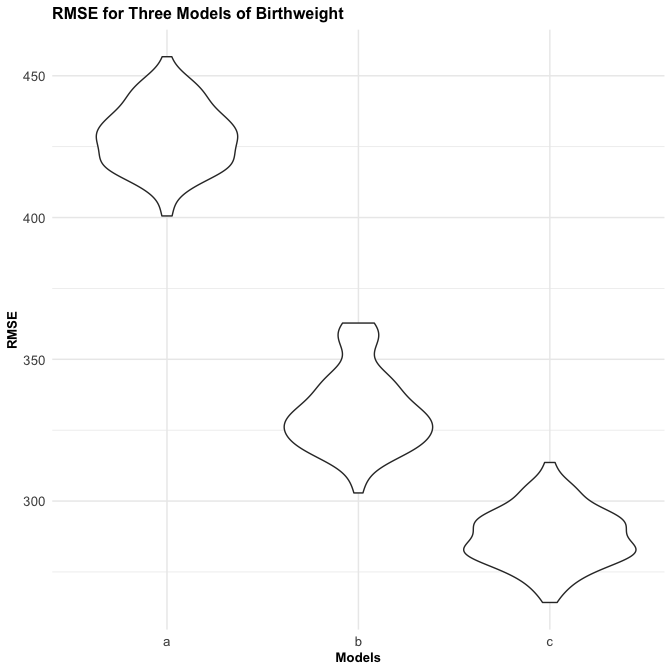
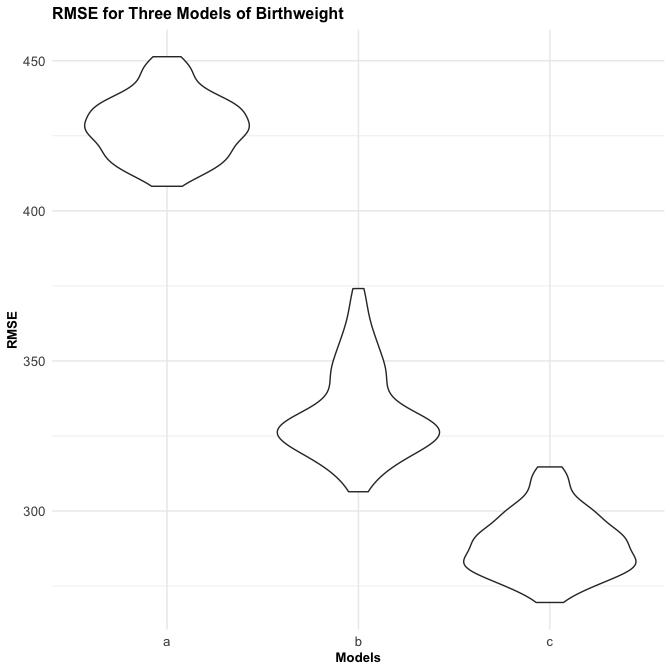
made edits to R Markdown file throughout (copyediting, fixing formatting, etc.)

diff --git a/p8105_hw6_amz2148.md b/p8105_hw6_amz2148.md
@@ -47,6 +47,8 @@ theme_set(theme_minimal() + theme(legend.position = "bottom")) #sets default fig
 
 # Problem 1
 
+Solutions provided.
+
 # Problem 2
 
 First we import the `homicides` dataset from the Washington Post
@@ -111,11 +113,11 @@ head(homicides) #outputs first few rows of dataset
 
 For the city of Baltimore, MD, we use the `glm` function to fit a
 logistic regression with resolved vs unresolved as the outcome and
-victim age, sex and race as predictors. We save the output of `glm` as
-an R object; apply `broom::tidy` to this object; and obtain the estimate
-and confidence interval of the adjusted odds ratio for solving homicides
-comparing male victims to female victims, keeping all other variables
-fixed.
+victim age, sex, and race as the predictors. We save the output of `glm`
+as an R object; apply `broom::tidy` to this object; and obtain the
+estimate and confidence interval of the adjusted odds ratio for solving
+homicides comparing male victims to female victims, keeping all other
+variables fixed.
 
 ``` r
 baltimore_logistic = 
@@ -144,11 +146,12 @@ baltimore_OR #outputs table
 
 As the above table demonstrates, the estimated odds ratio comparing the
 odds of having a resolved homicide (as opposed to unresolved) in Black
-or White females from Baltimore, MD was 2.35 times the odds of having a
-resolved homicide in Black or White males from Baltimore, MD - holding
+and White females from Baltimore, MD was 2.35 times the odds of having a
+resolved homicide in Black and White males from Baltimore, MD - holding
 victim age and race constant. We are 95% confident that the true odds
 ratio comparing resolved status in Black and White females vs. males in
-Baltimore, MD for this time period lies between 1.794 and 3.085.
+Baltimore, MD for this time period - adjusting for victim age and race -
+lies between 1.794 and 3.085.
 
 Now, we run `glm` for each of the cities in the `homicides` dataset, and
 extract the adjusted odds ratio and CI for solving homicides comparing
@@ -208,18 +211,20 @@ ggplot(all_cities, aes( x = city_state, y = OR)) + #creates ggplot of city_state
 
 <img src="p8105_hw6_amz2148_files/figure-gfm/OR_plot-1.png" width="100%" />
 
-The resulting plot shows that New York, NY has the highest OR of solved
-homicides in female vs. male victims, controlling for age and race. This
-means that in New York, female victims have the greatest odds when
-compared to those of males for having a solved homicide. The ORs are
-highly variable across U.S. cities, with most having ORs greater than 1,
-but some having ORs less than 1 (which means in these latter cities,
-male victims have a higher odds of having a solved homicide compared to
-females). The confidence intervals, however, of many of these estimates
-are quite large. Furthermore many include the null value of 1, which
-means that in tose cities, there is no statistically significant
-difference between odds of having a solved homicide in female vs. male
-victims.
+The resulting plot shows that New York, NY has the highest OR estimate
+of solved homicides in female vs. male victims, controlling for age and
+race. This means that in New York, female victims have the greatest odds
+when compared to males for having a solved homicide. The ORs are highly
+variable across U.S. cities, with most having ORs greater than 1, but
+some having ORs less than 1 (which means in these latter cities - such
+as Albuquerque, NM which has the lowest OR estimate - male victims have
+a higher odds of having a solved homicide compared to females). The
+confidence intervals, however, of many of these cities’ estimates are
+quite large. Furthermore many include the null value of 1 (e.g., Fresno,
+CA), which means that in those cities, there is no statistically
+significant difference between odds of having a solved homicide in
+female vs. male victims. In fact, all of the citis with ORs below 1 have
+a 95% CI which includes the null value of 1.
 
 # Problem 3
 
@@ -254,8 +259,8 @@ In the `birthweight` dataset, there are `4342` rows (observations) and
 The father’s race, mother’s race, baby’s sex, and presence of
 weight-affecting malformations variables were recoded as factor
 variables with their appropriate labels. There were no missing values
-identified other than one menarche value that was 0 years old at
-menarche; this was changed to NA.
+identified other than one menarche value that was recorded as 0 years
+old at menarche; this was changed to NA.
 
 Next, we propose a regression model for birthweight. This model may be
 based on a hypothesized structure for the factors that underly
@@ -329,18 +334,20 @@ exposure-outcome relationship. These covariates were maternal race,
 maternal smoking during pregnancy (number of cigarettes smoked per day),
 and maternal weight at delivery (pounds). These variables are all
 hypothesized to be related to the exposure and outcome of interest and
-not on the causal pathway between the main variables of interest. I also
-created a crude model of gestational age and birthweight I found that
-the beta coefficient for `gaweeks` changed substantially from the crude
-to adjusted model (\>10% change), which indicates that the adjusted
-model is appreciably different from the crude and suggests that
+are not on the causal pathway between the main variables of interest. I
+also created a crude model of gestational age and birthweight. I found
+that the beta coefficient for `gaweeks` changed substantially from the
+crude to adjusted model (\>10% change), which indicates that the
+adjusted model is appreciably different from the crude and suggests that
 confounding is in fact at play and the inclusion of these variables in
 the final model is reasonable.
 
 I also created a plot of model residuals vs. fitted values for the
 adjusted model which shows a fairly random distribution of residuals
-around the 0 line showing fairly equal variance of the error terms and
-that the model’s use of a linear relationship was roughly appropriate.
+around the 0 line, indicating fairly equal variance of the error terms
+and that the model’s use of a linear relationship was roughly
+appropriate. There is some clustering, however, of the residuals overall
+in the plot so the model is likely not ideal.
 
 Finally, we compare our model (`model_a`) to two others:
 
@@ -382,3 +389,12 @@ cv_df %>%
 ```
 
 <img src="p8105_hw6_amz2148_files/figure-gfm/cross_validation-1.png" width="100%" />
+
+The graph of RMSEs for each of the three models shows that Model C
+appears to be the best fit for this data, as its prediction error
+distribution is overall much smaller compared to that of the other two.
+This means that that model is the most predicatively accurate; however,
+even this model still appears to have a high prediction error
+distribution overall. Model A appears to be the least best fit for this
+data in terms of prediction accuracy, as it has the highest RMSE values
+according to our plot.
